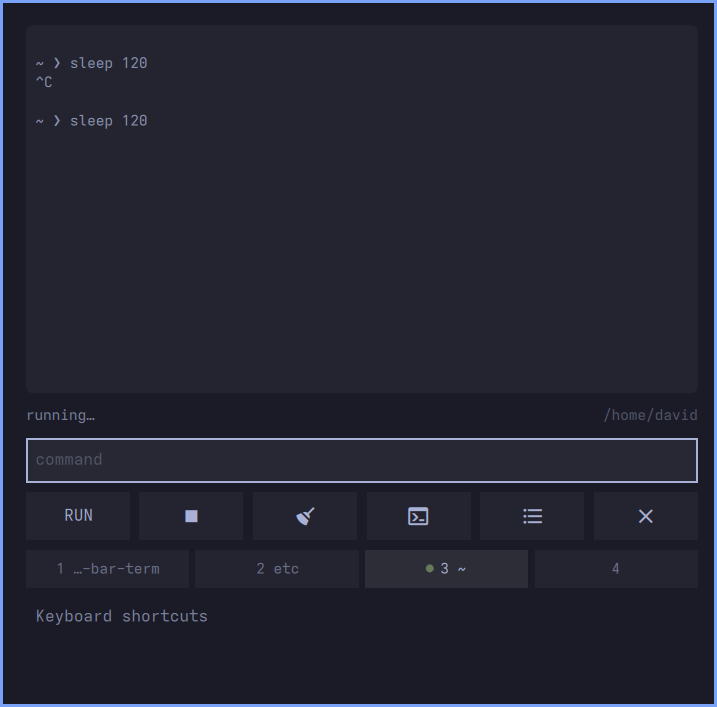
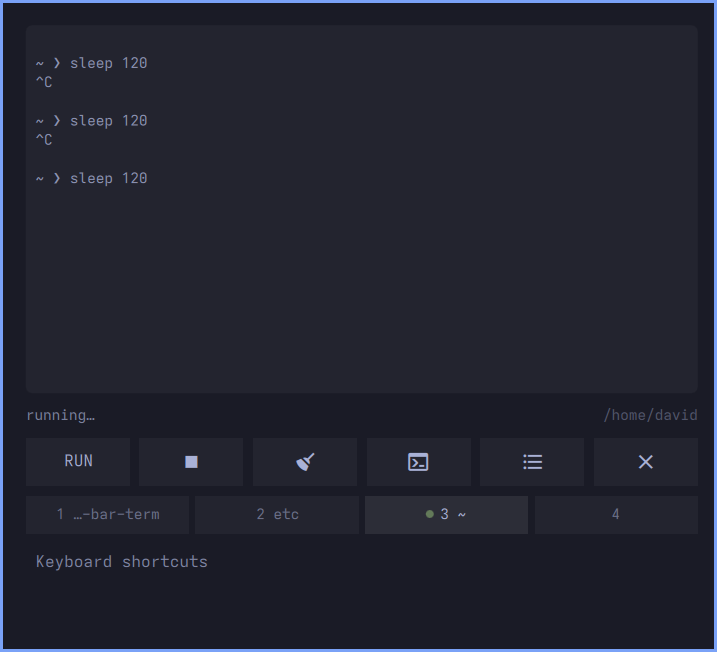
Fit the shortcut list, and say what the key does not the button
Claude-Session: https://claude.ai/code/session_01NsuTX3xQbZ1pzCFMGiucjP

diff --git a/Bindings.qml b/Bindings.qml
@@ -22,7 +22,7 @@ Item {
     // clears its screen, which leaves the pad still showing the scrollback it
     // reads back; the button drops the scrollback as well, which is what someone
     // pressing a broom in a widget means by it.
-    { id: "clear",    keys: [], hint: "Ctrl+L", shell: true, label: "Clear the screen, and the scrollback with it", act: function() { panel.clearOutput() } },
+    { id: "clear",    keys: [], hint: "Ctrl+L", shell: true, label: "Clear the screen", act: function() { panel.clearOutput() } },
     { id: "complete", keys: [], hint: "Tab",    shell: true, label: "Complete (the shell's)", act: function() { panel.sendKey("Tab") } },
     { id: "history",  keys: [], hint: "Up",     shell: true, label: "Previous command (the shell's)", act: function() { panel.sendKey("Up") } },
 

diff --git a/Theme.qml b/Theme.qml
@@ -67,7 +67,7 @@ Item {
   readonly property int outputHeight:  Style.space(230)
   // A whole number of rows, so when there are more bindings than fit, the list
   // scrolls from a clean edge instead of cutting one in half and looking broken.
-  readonly property int helpListRows:   14
+  readonly property int helpListRows:   15
   readonly property int helpListHeight: helpRowHeight * helpListRows
 
   // Output is read as columns as often as prose (ls, ps, a stack trace), so it

diff --git a/README.md b/README.md
@@ -110,7 +110,8 @@ interrupts, `Ctrl+L` clears, `Ctrl+W` kills a word. There is no line editor of t
 widget's own to be worse than the one you already have.
 
 The buttons under the screen do the common ones for you, and are the half you do not have
-to remember.
+to remember. The broom does slightly more than `Ctrl+L`: the key clears the shell's screen,
+the button drops the pad's scrollback with it.
 
 </details>
 
